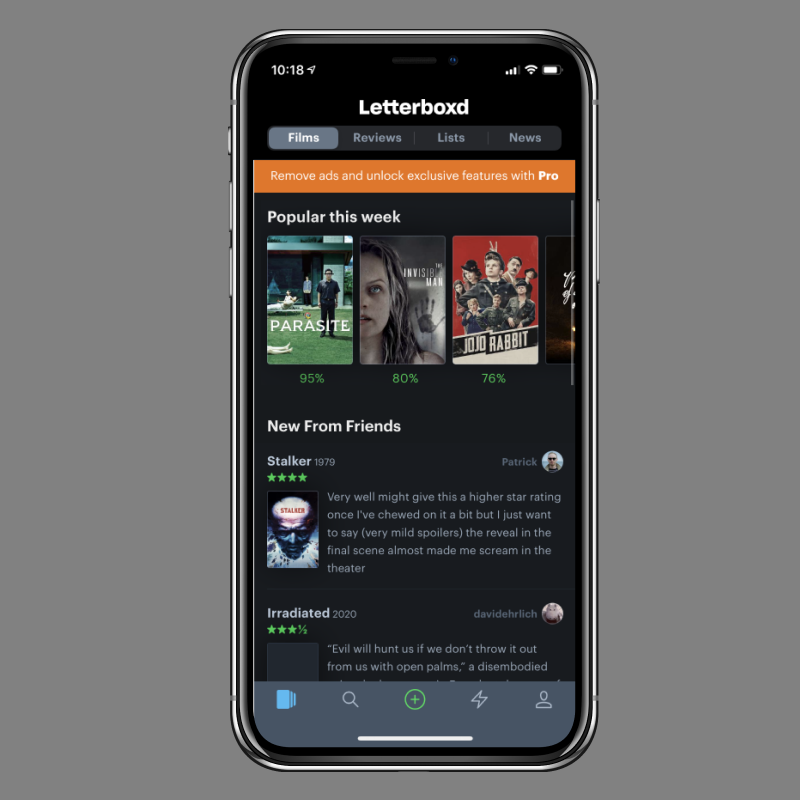
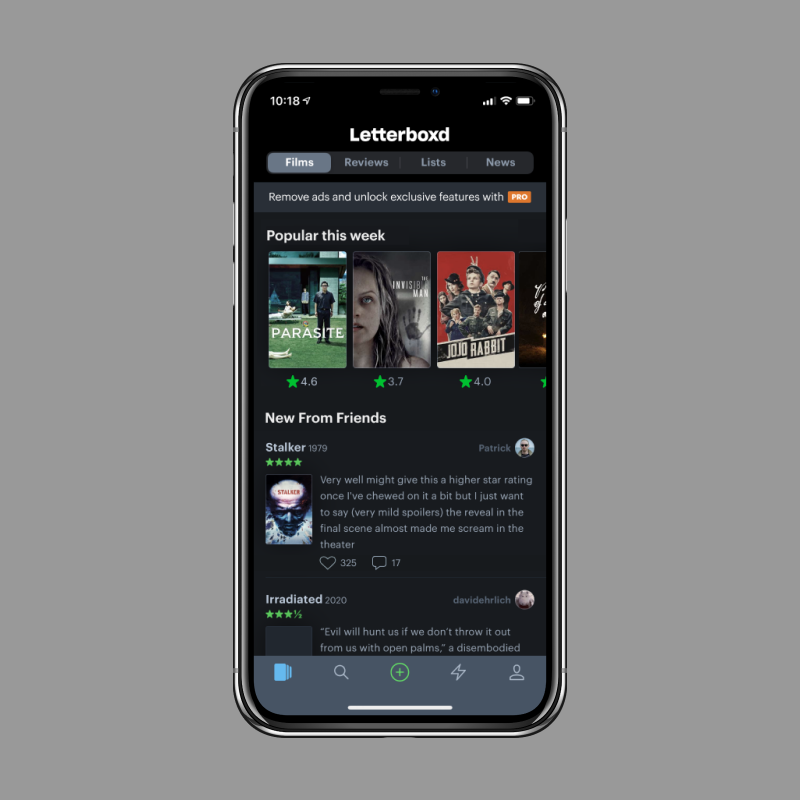
two case studies done

Changed region(s): [[0.2812, 0.0312, 0.75, 0.9688]]

diff --git a/chorizoburrito.html b/chorizoburrito.html
@@ -15,7 +15,7 @@
   </head>
   <body>
       <nav class="dt w-100 pa3 ph5-ns tracked">
-          <a class="dtc v-mid black w-25" href="index.html" title="Home">
+          <a class="link dtc v-mid black w-25" href="index.html" title="Home">
               <h1>Tommy Tran</h1>
             </a>
         <div class="dtc v-mid w-75 tr">
@@ -29,8 +29,8 @@
       </nav>
       <article class="bg-white">
           <div class="vh-75 cover bg-center" style="background-image: url(/images/CBbackground.png);"></div>
-          <div class="ph4 ph5-m ph6-l">
-            <div class="pv5 f4 f2-ns measure center">
+          <div class="ph4 ph5-m ph6-l bg-light-gray">
+            <div class="pv5 f4 f2-ns measure center ">
               <h1 class="fw6 f1 fl w-100 black-70 mt0 mb3 avenir">Chorizo Burrito (Blog)</h1>
               <p class="db lh-copy black-70 serif fw1 mv0 f4 f3-m f2-l measure baskerville">
                 Chorizo Burrito is a general interest blog.
@@ -48,26 +48,16 @@
                 <div class="pv6 cover bg-center" style="background-image: url(http://mrmrs.github.io/photos/004.jpg);"></div>
               </div>
             </div> -->
-            <div class="measure f3 center mv5 black-70">
-              <h1 class="fw6 f3 avenir">Concept</h1>
-              <p class="lh-copy measure f4 f3-ns black-70 baskerville">
-                As members of the post milenial generation, generation Z, zoomers whatever you want to call us, The most annoying painpoint for any blog is choosing a CMS. Many factors like storage, price and ease of use need to be considered.
-                              </p>
-              <p class="lh-copy measure f4 f3-ns black-70 baskerville">
-                The memories came to him, how he felt then. "It was very pure, if I can say it right," he'd explain later. "It was pure in 1984 … I was still dreaming." During the Olympics, he was deep in negotiations with Nike for his first shoe contract. He traded pins with other athletes. Eight years later, when he was the most famous person in the world and the Dream Team was forced to stay outside the Olympic Village, he'd be disappointed when that separation kept him from swapping pins again.
-              </p>
-            </div>
-            <img src="/images/CB_Chart_1.png" class="db w-50 center"/>
-            <blockquote class="mh0 pr0 mt5">
-              <p class="f2 f1-l fw1 mv0 tc lh-title baskerville">
-                “How can I update a blog everyday with as little effort as possible?”
-              </p>
-            </blockquote>
-            <img src="/images/CB_Chart_2.png" class="db w-25 center"/>
-            <div class="measure f4 f3-ns center mv5 black-70">
-              <p class="lh-copy measure f3 black-70 baskerville">
-                There's an unspoken shadow over the stories about that town house on Essex Drive. James Jordan remodeled the basement for his son. Did all the work himself, because he'd never let Michael pay for something he could do on his own. The first winter, while Michael was out of town for the All-Star Game, his pipes froze. His dad ripped out the walls, replacing the pipes himself, patching and repainting when he finished. He spent two weeks fixing his son's home. James and Mike -- that's where all this nostalgia has been headed, from the moment it began.
-              </p>
+            <img src="/images/CB_Slide_1.png" class="db w-100 pb2 center"/>
+            <img src="/images/CB_Slide_2.png" class="db w-100 pb2 center"/>
+            <img src="/images/CB_Slide_3.png" class="db w-100 pb2 center"/>
+            <img src="/images/CB_Slide_4.png" class="db w-100 pb2 center"/>
+            <img src="/images/CB_Slide_5.png" class="db w-100 pb2 center"/>
+            <img src="/images/CB_Slide_6.png" class="db w-100 pb2 center"/>
+            <img src="/images/CB_Slide_7.png" class="db w-100 pb2 center"/>
+            <img src="/images/CB_Slide_8.png" class="db w-100 pb2 center"/>
+            <img src="/images/CB_Slide_9.png" class="db w-100 pb2 center"/>
+            <div class="measure f4 f3-ns center mv5 ">
               <a href="http://chorizoburrito.org">
                 <p class="f2 f1-l fw1 mv0 tc lh-title baskerville"> Enter ChorizoBurrito.org</p>
               </a>

diff --git a/CaseStudyLetterboxd.html b/CaseStudyLetterboxd.html
@@ -1,0 +1,57 @@
+<!DOCTYPE html>
+<html>
+  <head>
+    <meta charset="utf-8" />
+    <title>Tommy's Realm</title>
+    <link
+      rel="stylesheet"
+      href="https://unpkg.com/tachyons@4.10.0/css/tachyons.min.css"
+    />
+    <link
+      href="https://fonts.googleapis.com/css?family=Rubik&display=swap"
+      rel="stylesheet"
+    />
+    <link rel="stylesheet" href="/styles/main.css" />
+  </head>
+  <body>
+      <nav class="dt w-100 pa3 ph5-ns tracked">
+          <a class="link dtc v-mid black w-25" href="index.html" title="Home">
+              <h1>Tommy Tran</h1>
+            </a>
+        <div class="dtc v-mid w-75 tr">
+          <a
+            class="link dim dark-gray f6 f5-ns dib mr3"
+            href="/index.html"
+            title="HOME"
+            >HOME</a
+          >
+        </div>
+      </nav>
+      <article class="bg-white">
+          <div class="vh-75 bg-center bg-silver" style="background-position: top; background-image: url(/images/CS_1.png);"></div>
+          <div class="ph4 ph5-m ph6-l bg-light-gray">
+            <div class="pv5 f4 f2-ns measure center ">
+              <h1 class="fw6 f1 fl w-100 black-70 mt0 mb3 avenir">Letterboxd Case Study</h1>
+            </div>
+            <img src="/images/LCS_Slide_1.png" class="db w-100 pb2 center"/>
+            <img src="/images/LCS_Slide_2.png" class="db w-100 pb2 center"/>
+            <img src="/images/LCS_Slide_3.png" class="db w-100 pb2 center"/>
+            <img src="/images/LCS_Slide_4.png" class="db w-100 pb2 center"/>
+            <img src="/images/LCS_Slide_5.png" class="db w-100 pb2 center"/>
+            <img src="/images/LCS_Slide_6.png" class="db w-100 pb2 center"/>
+            <img src="/images/LCS_Slide_7.png" class="db w-100 pb2 center"/>
+            <img src="/images/LCS_Slide_8.png" class="db w-100 pb2 center"/>
+            <img src="/images/LCS_Slide_9.png" class="db w-100 pb2 center"/>
+            <img src="/images/LCS_Slide_10.png" class="db w-100 pb2 center"/>
+            <img src="/images/LCS_Slide_11.png" class="db w-100 pb2 center"/>
+            <img src="/images/LCS_Slide_12.png" class="db w-100 pb2 center"/>
+            <img src="/images/LCS_Slide_13.png" class="db w-100 pb2 center"/>
+            <img src="/images/LCS_Slide_14.png" class="db w-100 pb2 center"/>
+            <img src="/images/LCS_Slide_15.png" class="db w-100 pb2 center"/>
+            <img src="/images/LCS_Slide_16.png" class="db w-100 pb2 center"/>
+            <img src="/images/LCS_Slide_17.png" class="db w-100 pb2 center"/>
+          </div>
+        </article>
+    
+  </body>
+</html>

diff --git a/index.html b/index.html
@@ -15,7 +15,7 @@
   </head>
   <body>
     <nav class="dt w-100 border-box pb5 pa3 ph5-ns tracked">
-      <a class="dtc v-mid black w-25" href="index.html" title="Home">
+      <a class="link dtc v-mid black w-25" href="index.html" title="Home">
         <h1>Tommy Tran</h1>
       </a>
       <div class="dtc v-mid w-75 tr">
@@ -31,25 +31,26 @@
     <div class="container">
       <ul class="list cf ph5-ns">
         <li class="project-unit fl w-50-m w-50-ns ph3-ns ph3-l pb3 pb3-l dim">
-          <a href="#" title="Letterboxd Case Study">
+          <a href="CaseStudyLetterboxd.html" title="Letterboxd Case Study">
             <img src="images/CS_1.png" />
           </a>
         </li>
         <li class="project-unit fl w-50-m w-50-ns ph3-ns ph3-l pb3 pb3-l dim">
-          <a href="#" title="Groovers">
+            <a href="/chorizoburrito.html" title="Chorizo Burrito (Blog)">
+              <img src="images/CB.png" />
+            </a>
+          </li>
+        <li class="project-unit fl w-50-m w-50-ns ph3-ns ph3-l pb3 pb3-l dim">
+          <a href="groovers.html" title="Groovers">
             <img src="images/groovers.png" />
           </a>
         </li>
         <li class="project-unit fl w-50-m w-50-ns ph3-ns ph3-l pb3 pb3-l dim">
-          <a href="#" title="MapSpace">
+          <a href="mapspace.html" title="MapSpace">
             <img src="images/MapSpace.png" />
           </a>
         </li>
-        <li class="project-unit fl w-50-m w-50-ns ph3-ns ph3-l pb3 pb3-l dim">
-          <a href="/chorizoburrito.html" title="Chorizo Burrito (Blog)">
-            <img src="images/CB.png" />
-          </a>
-        </li>
+
       </ul>
     </div>
   </body>

diff --git a/groovers.html b/groovers.html
@@ -1,0 +1,38 @@
+<!DOCTYPE html>
+<html>
+  <head>
+    <meta charset="utf-8" />
+    <title>Tommy's Realm</title>
+    <link
+      rel="stylesheet"
+      href="https://unpkg.com/tachyons@4.10.0/css/tachyons.min.css"
+    />
+    <link
+      href="https://fonts.googleapis.com/css?family=Rubik&display=swap"
+      rel="stylesheet"
+    />
+    <link rel="stylesheet" href="/styles/main.css" />
+  </head>
+  <body>
+      <nav class="dt w-100 pa3 ph5-ns tracked">
+          <a class="dtc v-mid black w-25" href="index.html" title="Home">
+              <h1>Tommy Tran</h1>
+            </a>
+        <div class="dtc v-mid w-75 tr">
+          <a
+            class="link dim dark-gray f6 f5-ns dib mr3"
+            href="/index.html"
+            title="HOME"
+            >HOME</a
+          >
+        </div>
+      </nav>
+      <article class="bg-white">
+          <div class="pv5 f4 f2-ns measure center ">
+              <h1 class="fw6 f1 fl w-100 black-70 mt0 mb3 avenir">Work in Progress</h1>
+            </div>
+
+        </article>
+    
+  </body>
+</html>

diff --git a/mapspace.html b/mapspace.html
@@ -1,0 +1,38 @@
+<!DOCTYPE html>
+<html>
+  <head>
+    <meta charset="utf-8" />
+    <title>Tommy's Realm</title>
+    <link
+      rel="stylesheet"
+      href="https://unpkg.com/tachyons@4.10.0/css/tachyons.min.css"
+    />
+    <link
+      href="https://fonts.googleapis.com/css?family=Rubik&display=swap"
+      rel="stylesheet"
+    />
+    <link rel="stylesheet" href="/styles/main.css" />
+  </head>
+  <body>
+      <nav class="dt w-100 pa3 ph5-ns tracked">
+          <a class="dtc v-mid black w-25" href="index.html" title="Home">
+              <h1>Tommy Tran</h1>
+            </a>
+        <div class="dtc v-mid w-75 tr">
+          <a
+            class="link dim dark-gray f6 f5-ns dib mr3"
+            href="/index.html"
+            title="HOME"
+            >HOME</a
+          >
+        </div>
+      </nav>
+      <article class="bg-white">
+          <div class="pv5 f4 f2-ns measure center ">
+              <h1 class="fw6 f1 fl w-100 black-70 mt0 mb3 avenir">Work in Progress</h1>
+            </div>
+
+        </article>
+    
+  </body>
+</html>

diff --git a/about.html b/about.html
@@ -15,19 +15,15 @@
   </head>
   <body>
       <nav class="dt w-100 pa3 ph5-ns tracked">
-        <h1 STYLE="color: #fff;">ABOUT</h1>
+          <a class="dtc v-mid black w-25" href="index.html" title="Home">
+              <h1>Tommy Tran</h1>
+            </a>
         <div class="dtc v-mid w-75 tr">
           <a
             class="link dim dark-gray f6 f5-ns dib mr3"
             href="/index.html"
             title="HOME"
             >HOME</a
-          >
-          <a
-            class="link dim dark-gray f6 f5-ns dib mr3"
-            href="#"
-            title="WORK"
-            >WORK</a
           >
         </div>
       </nav>
